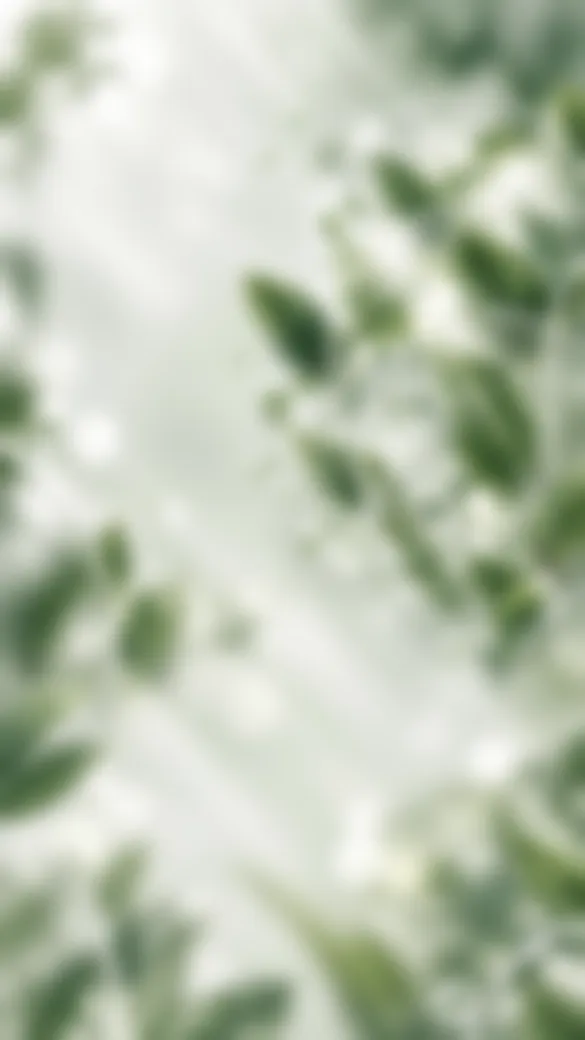
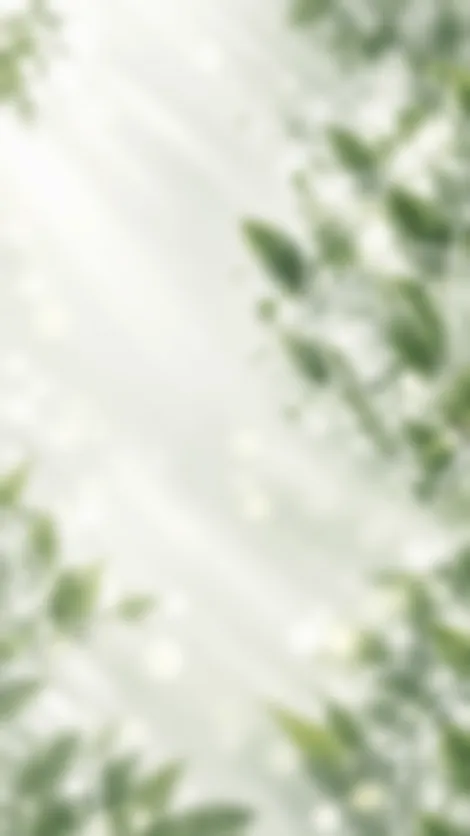
Phone layout: new leaf background, compact hero, row-style plans, denser sections

diff --git a/app/globals.css b/app/globals.css
@@ -197,6 +197,7 @@ h3{font-size:clamp(19px,1.6vw,22px);line-height:1.3;font-weight:500}
 .ticks svg{width:21px;height:21px;color:var(--leaf);flex:none;margin-top:2px;padding:3px;border-radius:50%;background:var(--mint)}
 .plan .btn{width:100%;margin-top:auto}
 .plan .ticks{margin-bottom:10px}
+.ticks-short{display:none}
 .pay-note{display:flex;align-items:center;justify-content:center;gap:28px;flex-wrap:wrap;margin-top:44px;font-size:14.5px;font-weight:300;color:var(--text)}
 .pay-note > span{display:inline-flex;align-items:center;gap:8px}
 .pay-note svg{width:18px;height:18px;color:var(--leaf)}
@@ -330,8 +331,8 @@ h3{font-size:clamp(19px,1.6vw,22px);line-height:1.3;font-weight:500}
 }
 @media (max-width:900px){
   .hero{min-height:0;padding:128px 0 56px;display:block}
-  .hero-bg,.hero-blur{background:url("/bg/hero-m.webp") center top/cover no-repeat;-webkit-mask-image:linear-gradient(#000 78%,transparent);mask-image:linear-gradient(#000 78%,transparent)}
-  .hero-blur{display:block;z-index:-2;background-image:url("/bg/hero-m-blur.webp");opacity:0;will-change:opacity}
+  .hero-bg,.hero-blur{background:url("/bg/hero-m.webp") center top/100% auto no-repeat;-webkit-mask-image:linear-gradient(#000 55%,transparent 100%);mask-image:linear-gradient(#000 55%,transparent 100%)}
+  .hero-blur{display:block;z-index:-2;background-image:url("/bg/hero-m-blur.webp");background-size:100% auto;opacity:0;will-change:opacity}
   body{background:var(--bg) url("/bg/bg-m-tile.webp") center top/100% auto repeat-y}
   .hero::after,.plate::before,.banner::before{display:none}
   .plate::after,.banner::after{background:rgba(230,232,220,.3)}
@@ -372,6 +373,115 @@ h3{font-size:clamp(19px,1.6vw,22px);line-height:1.3;font-weight:500}
   .final .btn{width:100%;max-width:340px}
   .banner::before{background-position:78% center}
   .banner::after{background:rgba(230,232,220,.42)}
+}
+
+/* phone: dense, compact layout like the target comp */
+@media (max-width:600px){
+  body{font-size:14px;line-height:1.55}
+  .hdr{top:10px}
+  .nav{height:60px;padding:0 12px 0 18px;border-radius:30px}
+  .logo img{height:34px;width:auto}
+  .eyebrow{font-size:11.5px;gap:10px;margin-bottom:12px}
+  .eyebrow::after,.eyebrow.center::before{width:28px}
+  .hero{padding:90px 0 32px}
+  .hero-copy .eyebrow{max-width:70%}
+  .hero h1{font-size:clamp(21px,6vw,24px);line-height:1.22;color:#12301F}
+  .hero .lead{font-size:12.5px;line-height:1.55;max-width:68%;margin-top:12px;color:#2F3C2A}
+  .hero-ctas{flex-direction:column;align-items:flex-start;gap:9px;margin-top:18px;max-width:58%}
+  .hero-ctas .btn{width:100%;flex:none;min-height:44px;font-size:14px;padding:0 16px}
+  .hero-cards{align-items:stretch;grid-template-columns:1.85fr 1fr;gap:10px;margin-top:20px;max-width:none}
+  .hcard{border-radius:22px}
+  .hc-in{padding:12px}
+  .hc-ring .hc-in{height:100%;align-items:center}
+  .hc-ring .hc-in{gap:10px}
+  .ring{width:54px;height:54px}
+  .ring circle{stroke-width:10}
+  .ring b{font-size:13px}
+  .hcard h3{font-size:13px;line-height:1.3}
+  .hcard ul{gap:4px;margin-top:6px}
+  .hcard li{font-size:10.5px;gap:5px;white-space:nowrap}
+  .hcard li span{width:15px;height:15px}
+  .hcard li svg{width:9px;height:9px}
+  .hc-prog .hc-in{padding-bottom:36px}
+  .hc-leaf{width:32px;height:32px;margin-bottom:8px}
+  .hc-leaf svg{width:16px;height:16px}
+  .hc-prog p{font-size:10.5px;margin-top:6px;line-height:1.4}
+  .bars{right:12px;bottom:12px;transform:scale(.55);transform-origin:right bottom}
+  .section{padding:40px 0}
+  .sec-head{margin-bottom:20px}
+  h2{font-size:clamp(21px,6vw,25px);line-height:1.2}
+  .sec-head .lead{font-size:12px;margin-top:10px;line-height:1.55}
+  .vcards{gap:10px}
+  .vcard{padding:14px 14px;border-radius:22px;gap:14px}
+  .vcard .badge-ic{width:46px;height:46px}
+  .vcard .badge-ic svg{width:21px;height:21px}
+  .vcard h3{font-size:14.5px}
+  .vcard p{font-size:11.5px;margin-top:3px;line-height:1.45}
+  .vcard > div{padding-right:34px}
+  .go{width:30px;height:30px;right:12px}
+  .plans{gap:10px;max-width:none}
+  .plan{border-radius:22px;padding:14px 14px 14px 12px;display:grid;grid-template-columns:44px 1fr auto;column-gap:10px;row-gap:0;align-items:start}
+  .plan.pop{margin-top:14px;padding-bottom:14px}
+  .plan-top{display:contents}
+  .plan .badge-ic{grid-row:1/3;grid-column:1;width:44px;height:44px;align-self:center}
+  .plan .badge-ic svg{width:22px;height:22px}
+  .plan-top > div{grid-column:2;grid-row:1}
+  .plan-name{font-size:17px}
+  .plan-for{font-size:11.5px;margin-top:1px}
+  .plan-price{grid-column:3;grid-row:1/3;flex-direction:column;align-items:flex-end;gap:0;align-self:center;padding-right:2px}
+  .plan-price .num{font-size:22px}
+  .plan-price small{font-size:10.5px}
+  .plan-first{display:none}
+  .plan .ticks-full{display:none}
+  .plan .ticks-short{display:grid;grid-column:2;grid-row:2;gap:3px;margin:6px 0 0}
+  .ticks li{font-size:11px;gap:6px;line-height:1.35;align-items:center}
+  .ticks svg{width:14px;height:14px;padding:2px;margin-top:0}
+  .plan .btn{position:absolute;inset:0;width:100%;min-height:0;border-radius:22px;background:none;border:0;box-shadow:none;font-size:0;padding:0;margin:0}
+  .plan .btn svg{display:none}
+  .plan .btn::after{content:"";position:absolute;right:14px;top:12px;width:20px;height:20px;border-radius:50%;border:1.5px solid rgba(34,77,48,.35);background:rgba(255,255,255,.55)}
+  .plan.pop .btn::after{border-color:var(--forest);background:radial-gradient(circle,var(--forest) 0 38%,#fff 42%)}
+  .plan-price{padding-top:22px}
+  .plan .badge{right:14px;top:-12px;font-size:10.5px;padding:4px 11px}
+  .plan .badge svg{width:11px;height:11px}
+  .pay-note{margin-top:20px;font-size:11.5px;gap:10px}
+  .plate::after{background:linear-gradient(rgba(230,232,220,0) 0,rgba(230,232,220,.3) 70px)}
+  .panels,.gcards,.tgrid,.wk-grid{gap:10px}
+  .panel{padding:16px;border-radius:22px;min-height:0;gap:8px}
+  .panel p,.gcard li,.wk p{font-size:12px}
+  .pn-head{gap:10px;margin-bottom:18px}
+  .pn-head .lead{margin-bottom:12px}
+  .gcard{padding:14px 16px;border-radius:20px}
+  .gcard h4{font-size:15px;margin-bottom:6px}
+  .gcard li{padding:3px 0}
+  .road .lead{margin:12px auto 16px}
+  .member{margin:18px 0 20px;padding:6px 16px 6px 6px}
+  .member img{width:38px;height:38px}
+  .feats{margin:18px 0;gap:8px}
+  .feat{padding:9px 14px;border-radius:18px;gap:10px;font-size:13px}
+  .feat i{width:34px;height:34px}
+  .feat svg{width:16px;height:16px}
+  .tcard{padding:16px;border-radius:22px;gap:14px}
+  .tcard blockquote{font-size:13px;line-height:1.55}
+  .tcard img{width:38px;height:38px}
+  .tcard figcaption small{font-size:11px}
+  .stars svg{width:15px;height:15px}
+  .wk{padding:12px 14px;border-radius:20px;gap:12px}
+  .wk-grid{margin-bottom:20px}
+  .fq button{padding:14px 16px;font-size:13.5px;gap:10px}
+  .fq svg{width:18px;height:18px}
+  .fq p{padding:0 16px 14px;font-size:12px}
+  .fq{border-radius:18px}
+  .ftr{padding:44px 0 24px}
+  .final{gap:18px;padding-bottom:28px}
+  .final h2{font-size:clamp(22px,6.2vw,26px)}
+  .ftr-grid{grid-template-columns:1fr 1fr;gap:20px 14px;padding:18px;margin:20px 0 14px;border-radius:22px}
+  .ftr-grid > div:first-child,.ftr-grid > div:last-child{grid-column:1/-1}
+  .ftr-grid p{font-size:12px;margin-top:8px}
+  .ftr h4{font-size:12.5px;margin-bottom:8px}
+  .ftr li{font-size:12px;margin-bottom:5px}
+  .news input{min-height:44px;font-size:13px;padding:0 16px}
+  .news button{width:44px;height:44px}
+  .ftr-bot{font-size:11px;padding-top:14px}
 }
 @media (prefers-reduced-motion:reduce){*{animation:none !important;transition-duration:.01ms !important;scroll-behavior:auto !important}}
 

diff --git a/lib/data.js b/lib/data.js
@@ -3,6 +3,7 @@ export const PLANS = [
     id: "start", name: "Start", price: 30, first: 15,
     tag: "კვების პროგრამები",
     desc: "დიეტები ნებისმიერი მიზნისთვის და ცხოვრების რიტმისთვის.",
+    short: ["დიეტა ბუსტი: 3-5 კგ 10 დღეში","დიეტა ბალანსი, შეზღუდვების გარეშე","პროგრამა დაკავებულებისთვის"],
     features: [
       "დიეტა ბუსტი: 3-დან 5 კგ-მდე 10 დღეში",
       "დიეტა ბალანსი: დაკლება შეზღუდვების გარეშე, ყველა პროდუქტით",
@@ -14,6 +15,7 @@ export const PLANS = [
     id: "plus", name: "Plus", price: 60, first: 30, popular: true,
     tag: "კვება + ვიდეოები",
     desc: "Start-ის ყველა დიეტა და ვიდეოები, რომლებიც ყოველდღიურობას გიმარტივებს.",
+    short: ["ყველაფერი Start-იდან","სახლის კარდიოს ვიდეოები","თვიური მარაგი და ღამის ცვლა"],
     features: [
       "ყველაფერი, რაც Start-შია",
       "როგორ დაწვა სახლში იმდენი კალორია, რამდენსაც დარბაზში კარდიოზე, აპარატების გარეშე",
@@ -25,6 +27,7 @@ export const PLANS = [
     id: "pro", name: "Pro", price: 120, first: 60,
     tag: "ლაივ მხარდაჭერა",
     desc: "პირადი გეგმა და ადამიანი, რომელიც გზაზე გვერდით გიდგას.",
+    short: ["ყველაფერი Plus-იდან","პერსონალური კვება და კონტროლი","მოტივაცია და ლაივ მხარდაჭერა"],
     features: [
       "ყველაფერი, რაც Plus-შია",
       "პერსონალური კვება და წონის კონტროლი",

diff --git a/components/Plans.js b/components/Plans.js
@@ -31,8 +31,9 @@ export default function Plans() {
                 </div>
                 <div className="plan-price"><span className="num">{p.price}₾</span><small>/ თვეში</small></div>
                 <p className="plan-first">პირველი თვე: {p.first}₾</p>
-                <ul className="ticks">{p.features.map((f) => (<li key={f}><Check /> {f}</li>))}</ul>
-                <button className={`btn ${p.popular ? "btn-forest" : "btn-ghost"}`} onClick={() => openCheckout(p.id)}>{p.id === "pro" ? "დაიწყე" : `აირჩიე ${p.name}`} <Arrow /></button>
+                <ul className="ticks ticks-full">{p.features.map((f) => (<li key={f}><Check /> {f}</li>))}</ul>
+                <ul className="ticks ticks-short">{p.short.map((f) => (<li key={f}><Check /> {f}</li>))}</ul>
+                <button aria-label={`${p.name}: ${p.price}₾`} className={`btn ${p.popular ? "btn-forest" : "btn-ghost"}`} onClick={() => openCheckout(p.id)}>{p.id === "pro" ? "დაიწყე" : `აირჩიე ${p.name}`} <Arrow /></button>
               </Reveal>
             );
           })}
